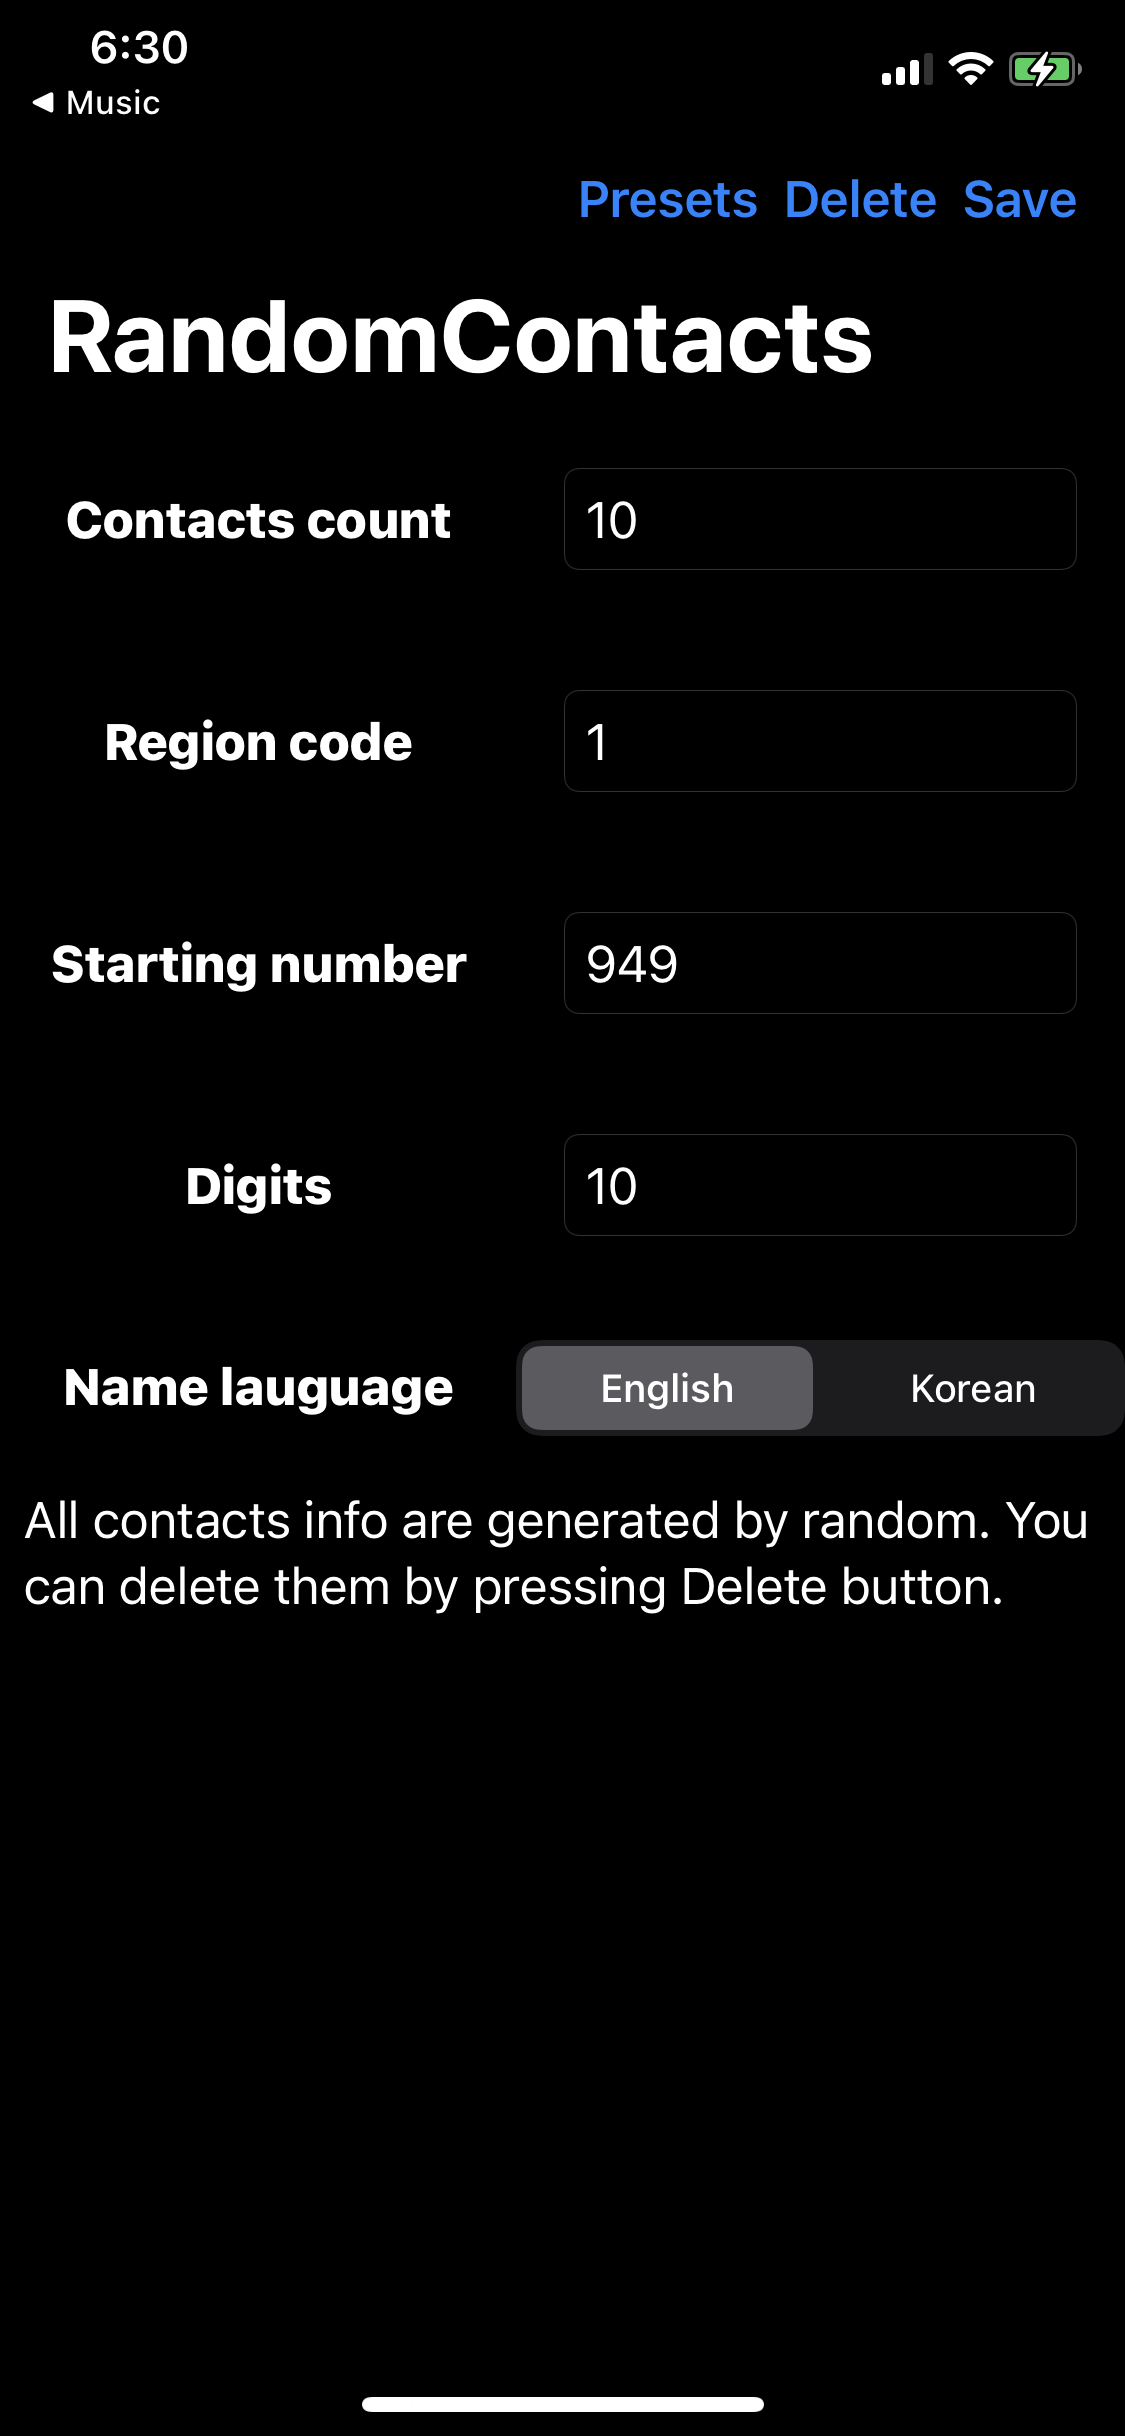
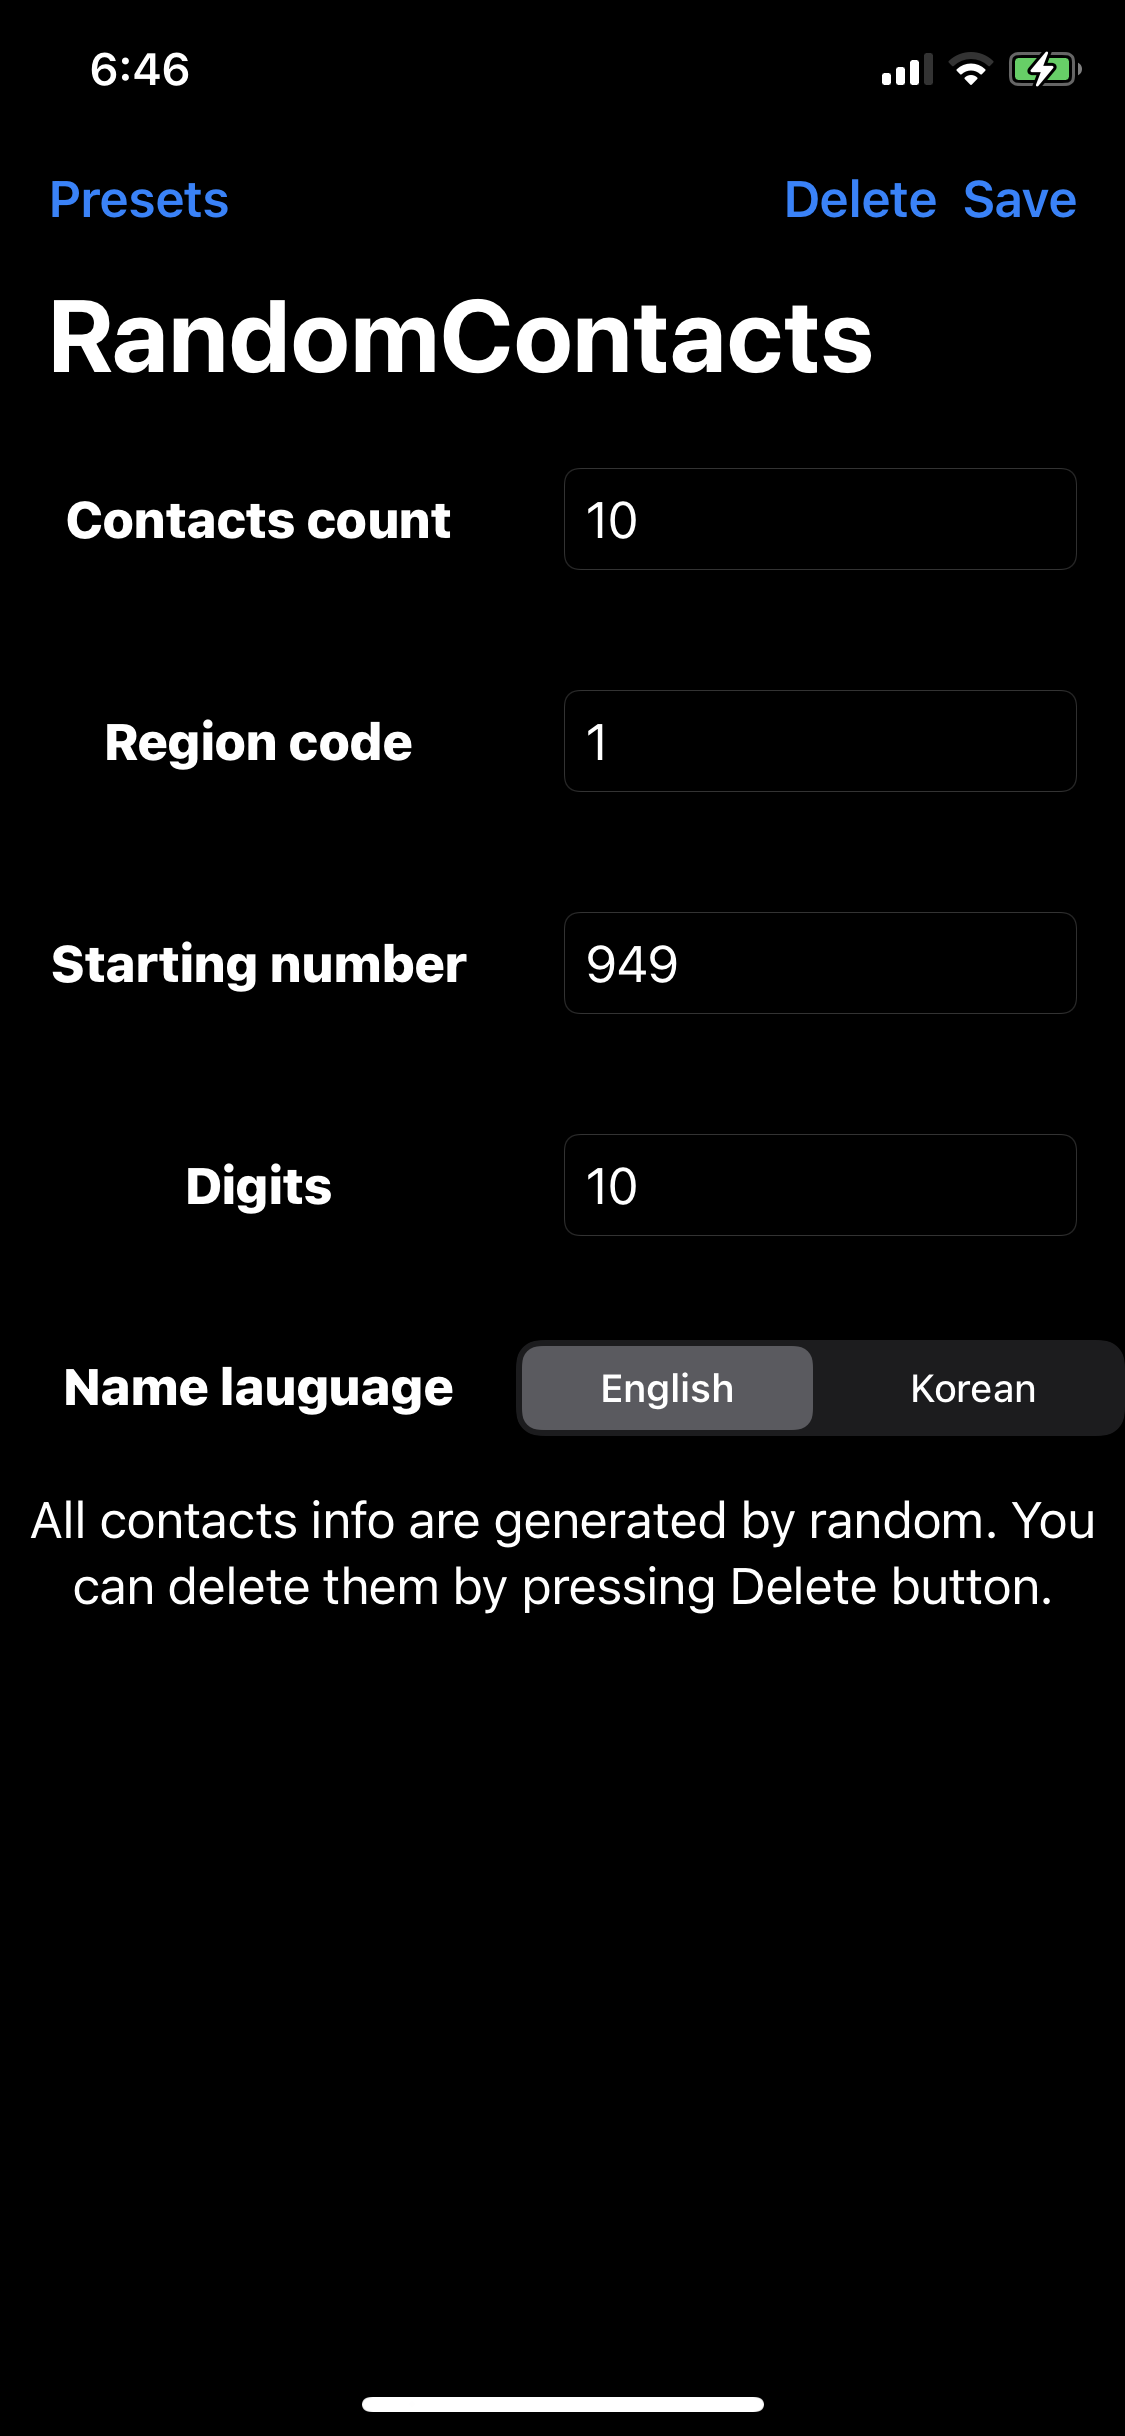
Presets button is moved to leading

Changed region(s): [[0.0311, 0.5928, 0.9644, 0.6864], [0.0311, 0.0, 0.2178, 0.0936], [0.4978, 0.0624, 0.6844, 0.0936]]

diff --git a/RandomContacts/ContentView.swift b/RandomContacts/ContentView.swift
@@ -10,12 +10,16 @@ import SwiftUI
 struct ContentView: View {
     @ObservedObject private var viewModel: ContentViewModel = .init()
     
-    private var trailingButtons: some View {
+    private var leadingButtons: some View {
         HStack {
             Button("Presets") {
                 viewModel.isPresetSheetPresented = true
             }
-            
+        }
+    }
+    
+    private var trailingButtons: some View {
+        HStack {
             Button("Delete") {
                 viewModel.error = nil
                 do {
@@ -112,7 +116,7 @@ struct ContentView: View {
                 Spacer()
             }
             .navigationTitle("RandomContacts")
-            .navigationBarItems(trailing: trailingButtons)
+            .navigationBarItems(leading: leadingButtons, trailing: trailingButtons)
             .navigationViewStyle(StackNavigationViewStyle())
         }
         .actionSheet(isPresented: $viewModel.isPresetSheetPresented) {
